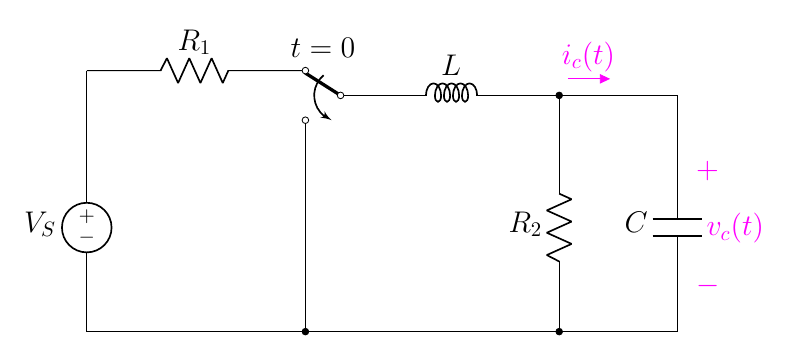
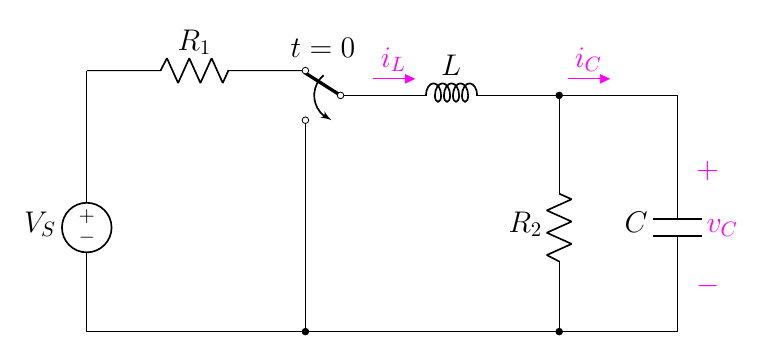
8.25

diff --git a/2.7 Critical Damping/8.3.3 The Critical RLC Circuit/8.25(new).tex b/2.7 Critical Damping/8.3.3 The Critical RLC Circuit/8.25(new).tex
@@ -41,10 +41,13 @@
     %%% find %%%
     \node at (4,4.8)[]{$t=0$};
     \draw[magenta](10.2,0.5)
-        to[open, v>=$v_c(t)$] ++(0,2.5);
+        to[open, v>=$v_C$] ++(0,2.5);
 
     \draw[circuitikz/current arrow color=magenta](8,4)
-    to[open,f>^=$\color{magenta}{i_c(t)}$] ++(2.4,0);
+    to[open,f>^=$\color{magenta}{i_C}$] ++(2.4,0);
+
+    \draw[circuitikz/current arrow color=magenta](4.7,4)
+    to[open,f>^=$\color{magenta}{i_L}$] ++(2.4,0);
 
 \end{circuitikz}
 \end{document}
